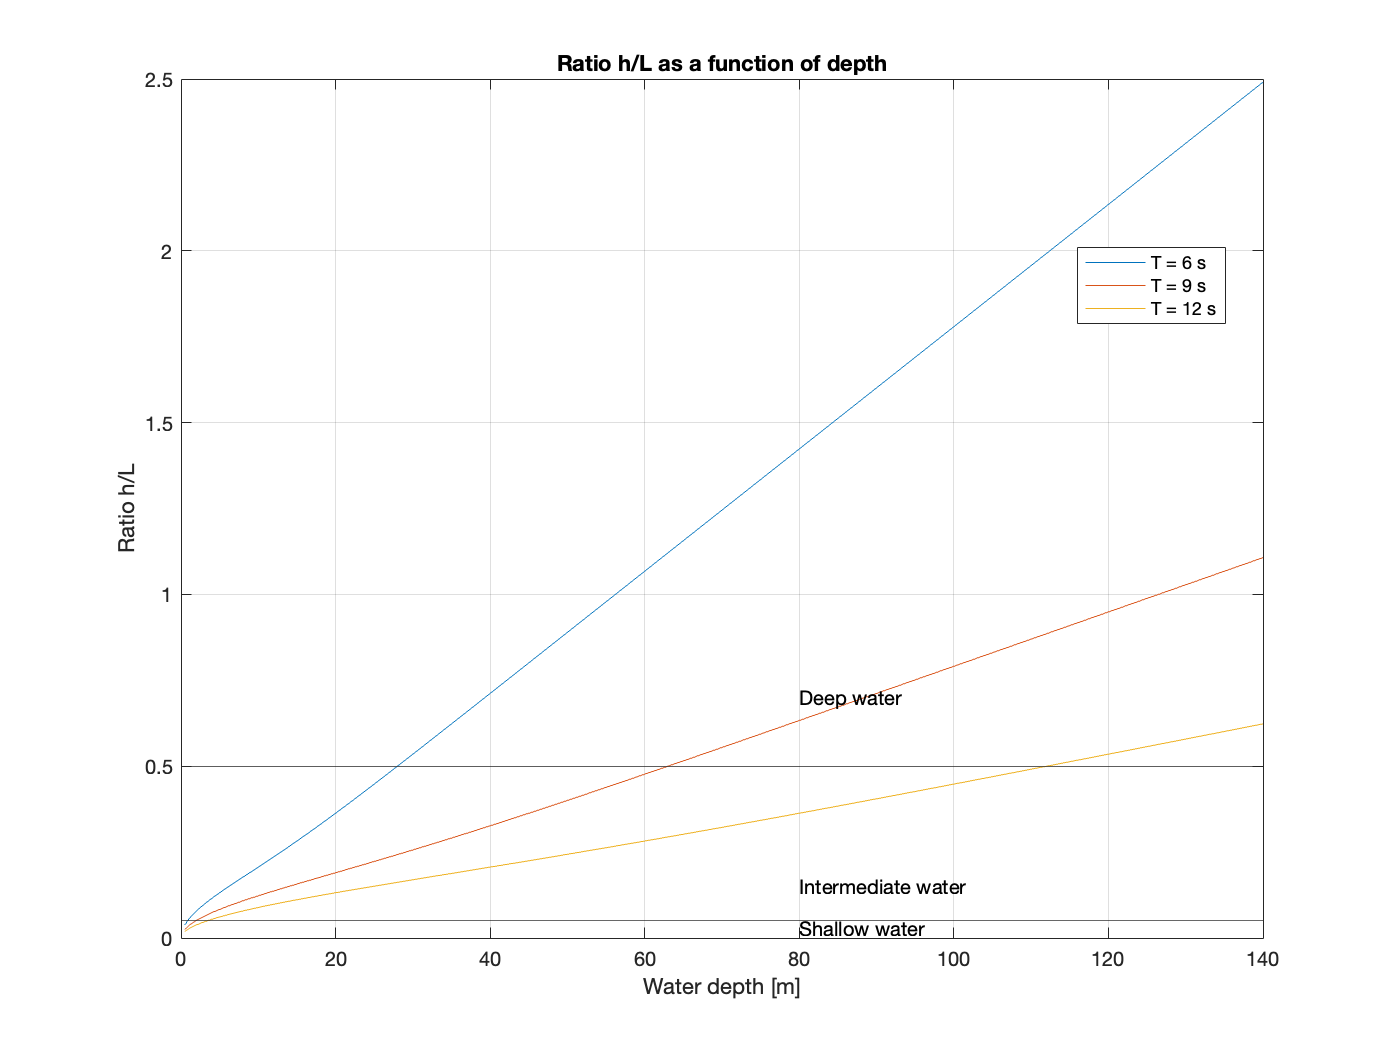
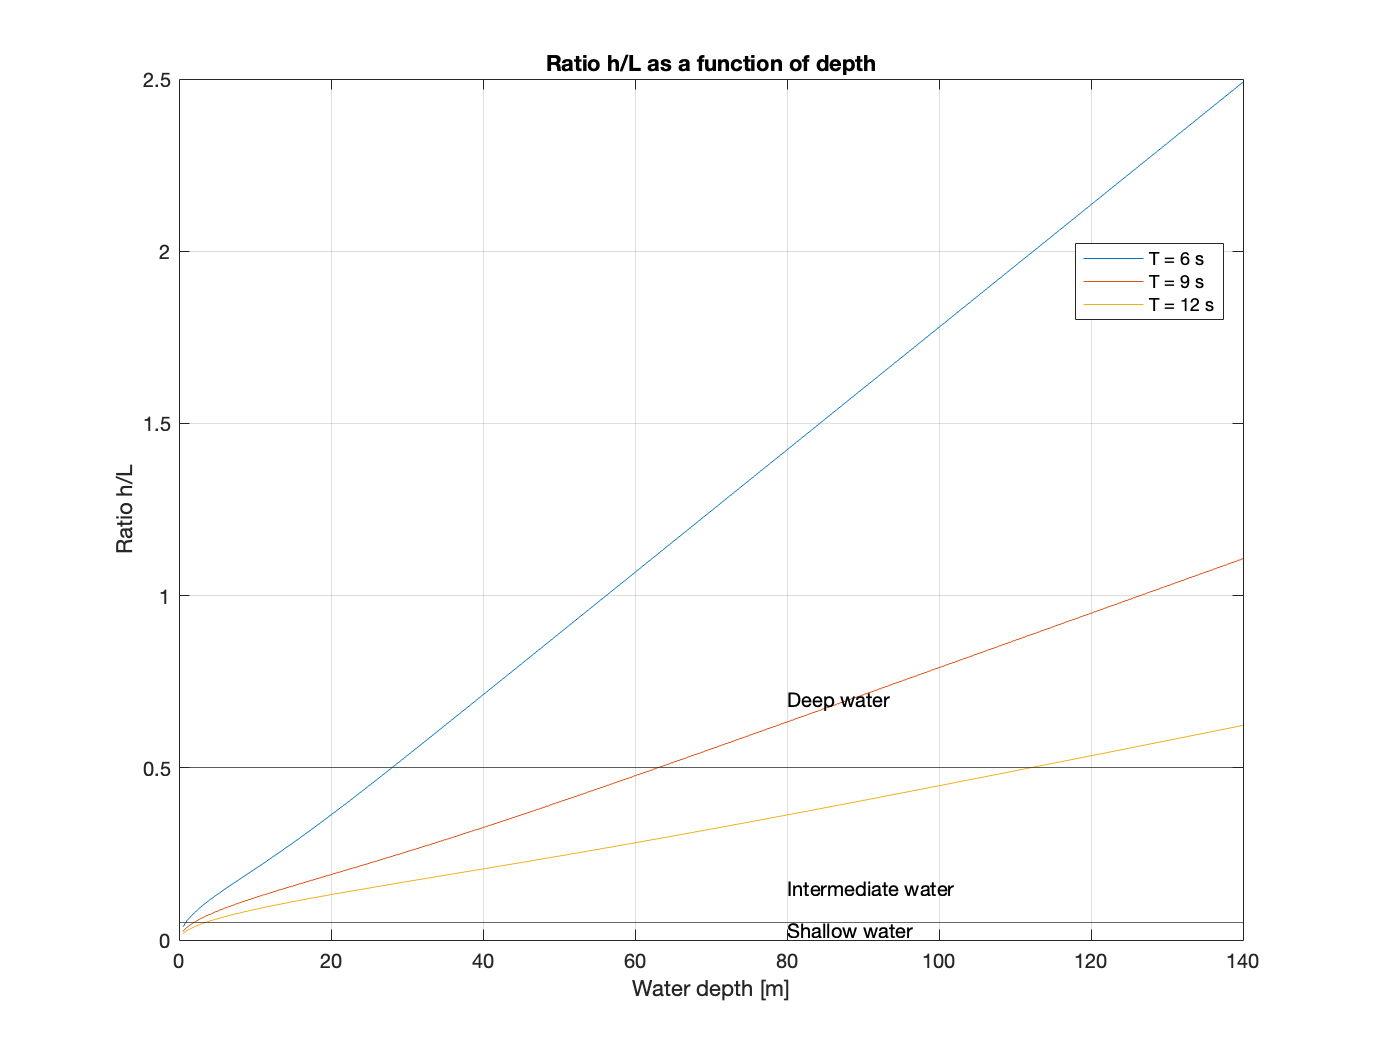
Finished code and figures

diff --git a/Chapter3/wavenumber_Guo.m b/Chapter3/wavenumber_Guo.m
@@ -8,19 +8,23 @@ function wavenumber = wavenumber_Guo(T,h)
 %Output: 
 %Wave number 
 
-omega = 2*pi/T;
+
+omega = 2*pi/T; %Frequency (1/second) 
 g = 9.81; %Gravity constant [m/sˆ2] 
 
-x = h*omega./sqrt(g*h); 
+x = h*omega./sqrt(g*h); %As shown in the manual 
 
-beta = 2.4908; 
+beta = 2.4908; %value from the manual 
 
-exponential = exp(-power(x,beta)); 
+exponential = exp(-power(x,beta)); %We calculate the exponential term separately to facilitate 
+%the calculation of y 
 
 y = (x.*x).*power(1 - exponential,-1/beta);  
 
+%We calculate the wavenumber
 k = y./h;
 
+%We return the wave number 
 wavenumber = k; 
 
 end
